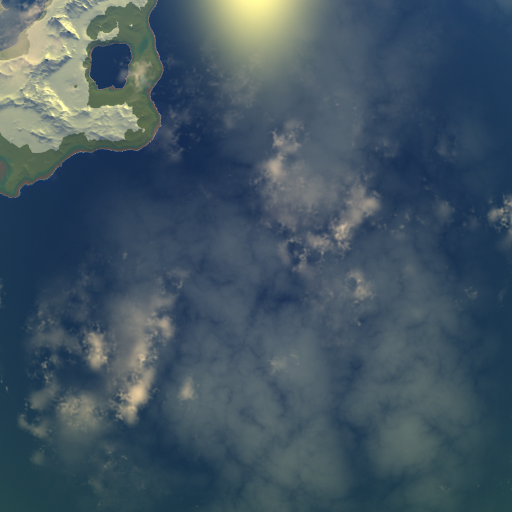
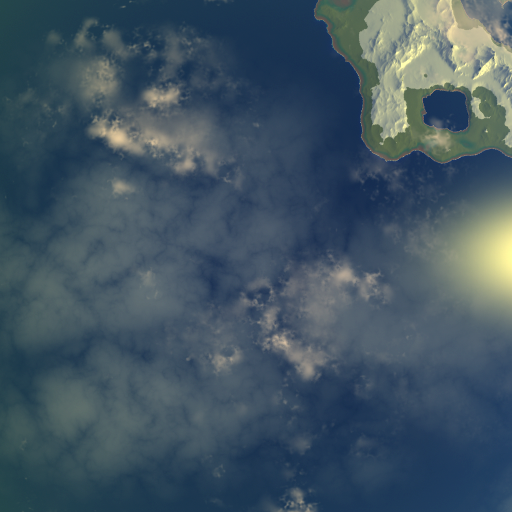
skybox, camera matrices, refactoring, clearWithSkybox method

diff --git a/Demo/Spaceship/main.cpp b/Demo/Spaceship/main.cpp
@@ -3,6 +3,8 @@
 #include <iostream>
 #include "RotationBehaviour.h"
 #include "CameraController.h"
+#include <Rendering/SkyboxRenderer.h>
+#include <System/system.hpp>
 
 using namespace std;
 
@@ -37,25 +39,42 @@ void _do(int argc, char **argv) {
 void setUpScene()
 {
 	GameObject* cameraGo = new GameObject("camera");
-	Camera* camera = new Camera(cameraGo, 60.0f, 4.0f / 3.0f, 1.0f, 1000.0f);
+	float screenRatio = static_cast<float>(Screen::width) / static_cast<float>(Screen::height);
+
+	Camera* camera = new Camera(cameraGo, 60.0f, screenRatio, 0.1f, 1000.0f);
 	cameraGo->AddComponent(camera);
-	camera->transform->setLocalPosition(glm::vec3(0.0f, 5.0f, 0.0f));
 	CameraController* cameraController = new CameraController(cameraGo);
 	cameraGo->AddComponent(cameraController);
-	/*camera->initializeSkybox(std::vector<string>{
-		"Assets\\Skyboxes\\mp_drakeq\\drakeq_bk.png",
-		"Assets\\Skyboxes\\mp_drakeq\\drakeq_dn.png", 
-		"Assets\\Skyboxes\\mp_drakeq\\drakeq_ft.png", 
-		"Assets\\Skyboxes\\mp_drakeq\\drakeq_lf.png", 
-		"Assets\\Skyboxes\\mp_drakeq\\drakeq_rt.png", 
-		"Assets\\Skyboxes\\mp_drakeq\\drakeq_up.png",
-	});*/
 
-	auto someModel = ModelLoader::LoadModel("spaceCruiser", "Assets\\space_cruiser_4.obj");
-	RotationBehaviour* rotation = new RotationBehaviour(someModel);
-	someModel->AddComponent<RotationBehaviour>(rotation);
+	/*
+	GL_TEXTURE_CUBE_MAP_POSITIVE_X
+	GL_TEXTURE_CUBE_MAP_NEGATIVE_X
+	GL_TEXTURE_CUBE_MAP_POSITIVE_Y
+	GL_TEXTURE_CUBE_MAP_NEGATIVE_Y
+	GL_TEXTURE_CUBE_MAP_POSITIVE_Z
+	GL_TEXTURE_CUBE_MAP_NEGATIVE_Z
+	*/
+	auto filenames = std::vector<string>{
+		"Assets\\Skyboxes\\mp_drakeq\\drakeq_rt.png",
+		"Assets\\Skyboxes\\mp_drakeq\\drakeq_lf.png",
+		"Assets\\Skyboxes\\mp_drakeq\\drakeq_up.png",
+		"Assets\\Skyboxes\\mp_drakeq\\drakeq_dn.png",
+		"Assets\\Skyboxes\\mp_drakeq\\drakeq_bk.png",
+		"Assets\\Skyboxes\\mp_drakeq\\drakeq_ft.png",
+	};
+
+	camera->loadSkybox(filenames);
+	
+	auto spaceShipGo = ModelLoader::LoadModel("spaceCruiser", "Assets\\space_cruiser_4.obj");
+	//RotationBehaviour* rotation = new RotationBehaviour(spaceShipGo);
+	//spaceShipGo->AddComponent<RotationBehaviour>(rotation);
 
 	// negative z because glm::perspective flips z
-	someModel->transform->setLocalPosition(glm::vec3(0.0f, 0.0f, -50.0f));
-	someModel->transform->setLocalScale(glm::vec3(1.0f, 1.0f, 1.0f));
+	spaceShipGo->transform->setLocalPosition(glm::vec3(0.0f, 0.0f, 0.0f));
+	spaceShipGo->transform->setLocalScale(glm::vec3(1.0f, 1.0f, 1.0f));
+
+	// todo: here is an issue with vp matrix
+	// Place camera behing ship
+	//camera->transform->setParent(spaceShipGo->transform.get());
+	camera->transform->setLocalPosition(glm::vec3(0, 1, 50));
 }

diff --git a/Engine/Rendering/Camera.cpp b/Engine/Rendering/Camera.cpp
@@ -1,10 +1,10 @@
 #include "Camera.h"
 #include "Model/Transform.h"
-#include "TextureManager.h"
-#include <vector>
+#include "SkyboxRenderer.h"
+
 #include <glm/gtx/transform.hpp>
-#include "ShaderLoader.h"
-#include "MeshManager.h"
+#include <vector>
+#include <memory>
 
 // static fields
 Camera* Camera::main = nullptr;
@@ -31,26 +31,36 @@ void Camera::Start()
 {
 }
 
-glm::mat4 Camera::getViewProjectionMatrix() const
-{
+glm::mat4 Camera::getViewProjectionMatrix() const {
 	recalculateMatrices();
 	return projectionMatrix * viewMatrix;
 }
 
-glm::mat4 Camera::getViewMatrix() const
-{
+glm::mat4 Camera::getOrientationMatrix() const {
+	// todo: must be without translation, scale
+	return getViewProjectionMatrix();
+}
+
+glm::mat4 Camera::getViewMatrix() const {
 	recalculateMatrices();
 	return viewMatrix;
 }
 
-glm::mat4 Camera::getProjectionMatrix() const
-{
+glm::mat4 Camera::getProjectionMatrix() const {
 	recalculateMatrices();
 	return projectionMatrix;
 }
 
-void Camera::recalculateMatrices() const
-{
+void Camera::recalculateMatrices() const {
 	projectionMatrix = glm::perspective(glm::radians(horizontalFov), ratio, nearClippingPlane, farClippingPlane);
 	viewMatrix = transform->getWorldToLocalMatrix();
+}
+
+void Camera::loadSkybox(std::vector<std::string>& filenames) {
+	skyboxRenderer = std::make_unique<SkyboxRenderer>(this, filenames);
+}
+
+void Camera::clearWithSkybox() const
+{
+	skyboxRenderer->render();
 }

diff --git a/Engine/Rendering/Camera.h b/Engine/Rendering/Camera.h
@@ -1,11 +1,12 @@
 #ifndef CAMERA_h
 #define CAMERA_h
 
+#include <Rendering/rendering.hpp>
 #include <Model/Component.h>
 #include <glm/glm.hpp>
-#include <glew/glew.h>
 #include <string>
 #include <vector>
+#include <memory>
 
 class Camera: public Component
 {
@@ -16,6 +17,7 @@ private:
 	float ratio; // width/height;
 	float nearClippingPlane;
 	float farClippingPlane;
+	std::unique_ptr<IRenderer> skyboxRenderer;
 	mutable glm::mat4 viewMatrix;
 	mutable glm::mat4 projectionMatrix;
 
@@ -26,11 +28,13 @@ public:
 	virtual void Update() override;
 	virtual void Start() override;
 	glm::mat4 getViewProjectionMatrix() const;
+	glm::mat4 getOrientationMatrix() const;
 	float getHorizontalFov() const { return horizontalFov; }
 	float getRatio() const { return ratio; }
 	glm::mat4 getViewMatrix() const;
 	glm::mat4 getProjectionMatrix() const;
-
+	void loadSkybox(std::vector<std::string>& filenames);
+	void clearWithSkybox() const;
 	static const Camera * getMainCamera() { return main; }
 };
 

diff --git a/Demo/Spaceship/CameraController.cpp b/Demo/Spaceship/CameraController.cpp
@@ -16,6 +16,21 @@ void CameraController::Start()
 
 void CameraController::Update()
 {
+	if (Input::checkIfKeyPressed(KeyCodes::D)) {
+		transform->addLocalYawPitchRoll(vec3(0.0f, 0.0f, 0.01f));
+	}
+	if (Input::checkIfKeyPressed(KeyCodes::A)) {
+		transform->addLocalYawPitchRoll(vec3(0.0f, 0.0f, -0.01f));
+	}
+	if (Input::checkIfKeyPressed(KeyCodes::W)) {
+		transform->addLocalYawPitchRoll(vec3(0.01f, 0.0f, 0.0));
+	}
+	if (Input::checkIfKeyPressed(KeyCodes::S)) {
+		transform->addLocalYawPitchRoll(vec3(-0.01f, 0.0f, 0.0));
+	}
+
+	/*
+	TODO: Mouse view control
 	constexpr float mouseSensX = 0.0001f;
 	constexpr float mouseSensY = 0.0001f;
 
@@ -32,5 +47,5 @@ void CameraController::Update()
 
 	//cout << mousePos.x << ", " << mousePos.y << endl;
 
-	this->transform->addLocalYawPitchRoll(vec3(mousePos.y * mouseSensY, 0.0f, mousePos.x * mouseSensX));
+	this->transform->addLocalYawPitchRoll(vec3(mousePos.y * mouseSensY, 0.0f, mousePos.x * mouseSensX));*/
 }

diff --git a/Tests/RenderingTestFixture/main.cpp b/Tests/RenderingTestFixture/main.cpp
@@ -42,9 +42,8 @@ void _do(int argc, char **argv) {
 void setUpScene() {
 
 	GameObject* cameraGo = new GameObject("camera");
-	GameObject* cube = new GameObject("cube");
 
-	float screenRatio = (float)Screen::width / (float)Screen::height;
+	float screenRatio = static_cast<float>(Screen::width) / static_cast<float>(Screen::height);
 
 	Camera* camera = new Camera(cameraGo, 60.0f, screenRatio, 0.1f, 1000.0f);
 	cameraGo->AddComponent(camera);
@@ -68,5 +67,5 @@ void setUpScene() {
 		"Skyboxes\\mp_drakeq\\drakeq_ft.png",
 	};
 
-	cube->renderer = make_unique<SkyboxRenderer>(camera, filenames);
+	camera->loadSkybox(filenames);
 }

diff --git a/Engine/Rendering/SkyboxRenderer.h b/Engine/Rendering/SkyboxRenderer.h
@@ -20,12 +20,12 @@ struct SkyboxMaterialTraits {
 class SkyboxRenderer : public Renderer<SkyboxRenderer, SkyboxMaterialTraits> {
 	// skybox
 	GLuint cubeMapTextureId;
-	Camera* camera;
+	Camera * const camera;
 
 	friend class Renderer<SkyboxRenderer, SkyboxMaterialTraits>;
 	GLuint createCubemap(std::vector<std::string> filenames);
 public:
-	explicit SkyboxRenderer(Camera* _camera, std::vector<std::string> filenames);
+	explicit SkyboxRenderer(Camera * const _camera, std::vector<std::string> filenames);
 	virtual void render() const override;
 	virtual ~SkyboxRenderer() override;
 };

diff --git a/Engine/Rendering/SkyboxRenderer.cpp b/Engine/Rendering/SkyboxRenderer.cpp
@@ -3,7 +3,7 @@
 #include "MeshManager.h"
 #include <iostream>
 
-SkyboxRenderer::SkyboxRenderer(Camera* _camera, std::vector<std::string> filenames):
+SkyboxRenderer::SkyboxRenderer(Camera * const _camera, std::vector<std::string> filenames):
 	Renderer(MeshManager::getSkyboxMesh()),
 	cubeMapTextureId(createCubemap(filenames)),
 	camera(_camera)

diff --git a/Engine/Application.cpp b/Engine/Application.cpp
@@ -78,6 +78,7 @@ void Application::runMainLoop()
 void Application::renderScene() {
 	Time::updateClock();
 	glClear(GL_COLOR_BUFFER_BIT | GL_DEPTH_BUFFER_BIT);
+	Camera::getMainCamera()->clearWithSkybox();
 
 	//
 	for(auto it = scene->begin(); it != scene->end(); ++it)
